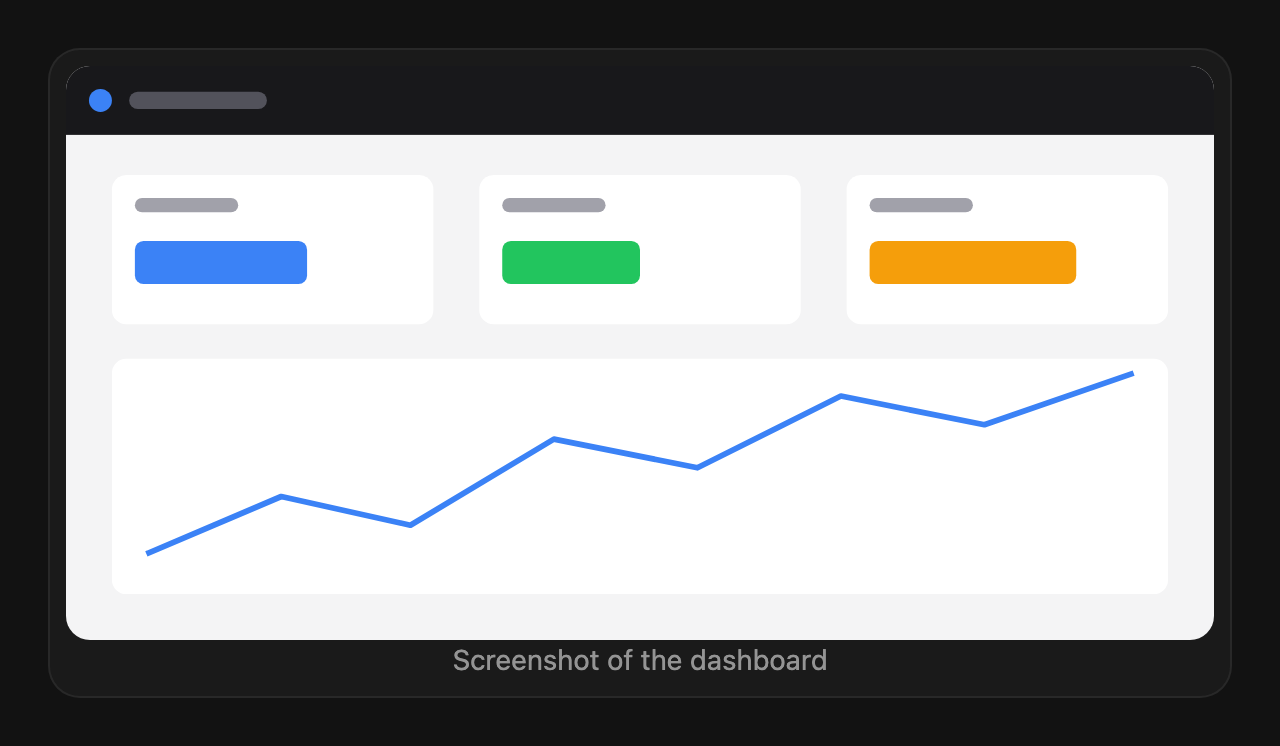
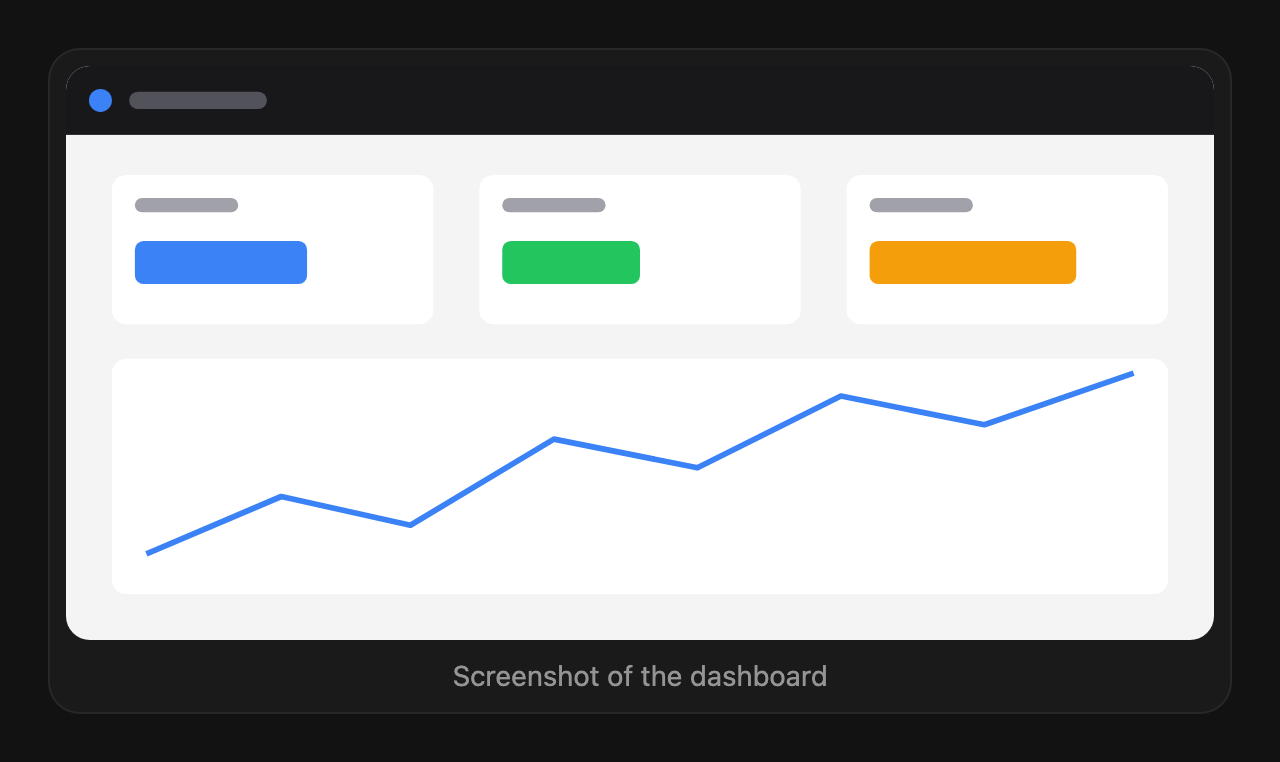
Add wiki front page example with RecentlyUpdatedList as a sidebar
Claude-Session: https://claude.ai/code/session_0121kxNFBZadoimDmhJeGX2b

diff --git a/demo/src/demo/wiki-home-example.tsx b/demo/src/demo/wiki-home-example.tsx
@@ -1,0 +1,87 @@
+import { BookOpen, Library, Moon, Search, Sparkles } from 'lucide-react';
+import { RecentlyUpdatedList } from '@/components/recently-updated-list';
+
+const recent = [
+  { href: '/docs/onboarding', title: 'Onboarding checklist', trail: 'Team › People', meta: 'Last updated 18/10/2026 by Ada' },
+  { href: '/docs/vpn', title: 'Set up the VPN', trail: 'IT', meta: 'Last updated 16/10/2026 by Grace' },
+  { href: '/docs/release-process', title: 'Release process', trail: 'Engineering › Processes', meta: 'Last updated 15/10/2026 by Linus' },
+  { href: '/docs/expenses', title: 'Expense policy', trail: 'Finance', meta: 'Last updated 14/10/2026 by Ada' },
+  { href: '/docs/on-call', title: 'On-call handbook', trail: 'Engineering › Operations', meta: 'Last updated 13/10/2026 by Grace' },
+  { href: '/docs/brand', title: 'Brand guidelines', trail: 'Marketing', meta: 'Last updated 12/10/2026 by Linus' },
+];
+
+const cards = [
+  { icon: Library, tag: 'For everyone', title: 'Knowledge base', text: 'Guides, policies, tools and team info.' },
+  { icon: BookOpen, tag: 'For editors', title: 'Using this wiki', text: 'How to read, edit and add to these docs.' },
+];
+
+const popular = [
+  { title: 'Onboarding', trail: 'Team › People' },
+  { title: 'Release process', trail: 'Engineering › Processes' },
+  { title: 'Expense policy', trail: 'Finance' },
+  { title: 'Brand guidelines', trail: 'Marketing' },
+];
+
+export function WikiHomeExample() {
+  return (
+    <div className="w-[1100px] bg-fd-background text-fd-foreground">
+      <header className="flex items-center justify-between border-b border-fd-border px-8 py-4">
+        <div className="flex items-center gap-2 font-semibold">
+          <Sparkles className="size-5" />
+          Acme Wiki
+        </div>
+        <div className="flex items-center gap-3 text-fd-muted-foreground">
+          <div className="flex w-56 items-center gap-2 rounded-full border border-fd-border bg-fd-secondary/50 px-3 py-1.5 text-sm">
+            <Search className="size-4" />
+            Search
+          </div>
+          <Moon className="size-4" />
+        </div>
+      </header>
+
+      <div className="grid grid-cols-[1fr_17rem]">
+        <main className="px-10 py-12">
+          <div className="text-center">
+            <p className="text-sm text-fd-muted-foreground">Welcome back, Sam</p>
+            <h1 className="mt-1 text-3xl font-bold">Acme Wiki</h1>
+            <p className="mt-2 text-fd-muted-foreground">Internal documentation for the Acme team.</p>
+          </div>
+
+          <div className="mx-auto mt-6 flex max-w-md items-center gap-2 rounded-xl border border-fd-border bg-fd-secondary/50 px-4 py-3 text-fd-muted-foreground">
+            <Search className="size-4" />
+            Search
+          </div>
+
+          <div className="mt-8 grid grid-cols-2 gap-4">
+            {cards.map(({ icon: Icon, tag, title, text }) => (
+              <div key={title} className="rounded-xl border border-fd-border bg-fd-card p-4">
+                <div className="flex items-center justify-between">
+                  <span className="flex size-9 items-center justify-center rounded-lg border border-fd-border bg-fd-background">
+                    <Icon className="size-4" />
+                  </span>
+                  <span className="rounded-full border border-fd-border px-2 py-0.5 text-xs text-fd-muted-foreground">{tag}</span>
+                </div>
+                <p className="mt-6 font-medium">{title}</p>
+                <p className="mt-1 text-sm text-fd-muted-foreground">{text}</p>
+              </div>
+            ))}
+          </div>
+
+          <h2 className="mt-10 text-sm font-semibold">Popular articles</h2>
+          <div className="mt-3 grid grid-cols-2 gap-x-6 gap-y-3">
+            {popular.map(({ title, trail }) => (
+              <div key={title}>
+                <p className="text-sm font-medium">{title}</p>
+                <p className="text-xs text-fd-muted-foreground">{trail}</p>
+              </div>
+            ))}
+          </div>
+        </main>
+
+        <aside className="border-l border-fd-border px-6 py-12">
+          <RecentlyUpdatedList title="Recently updated" items={recent} />
+        </aside>
+      </div>
+    </div>
+  );
+}

diff --git a/demo/src/app/examples/wiki-home/page.tsx b/demo/src/app/examples/wiki-home/page.tsx
@@ -1,0 +1,9 @@
+import { WikiHomeExample } from '@/demo/wiki-home-example';
+
+export default function Page() {
+  return (
+    <div data-preview="wiki-home" className="w-fit">
+      <WikiHomeExample />
+    </div>
+  );
+}

diff --git a/README.md b/README.md
@@ -255,6 +255,26 @@ Each item:
 
 The list has no wording of its own, so there is nothing to translate. Dates and authors are formatted by you, in `meta`.
 
+#### Example: wiki front page
+
+The list works well as a sidebar next to the main content of a landing page:
+
+<picture>
+  <source media="(prefers-color-scheme: dark)" srcset="docs/previews/wiki-home-dark.png">
+  <img alt="Wiki front page with the main content on the left and RecentlyUpdatedList as a right-hand sidebar" src="docs/previews/wiki-home-light.png" width="720">
+</picture>
+
+```tsx
+<div className="grid grid-cols-[1fr_17rem]">
+  <main className="px-10 py-12">{/* hero, search, cards, popular articles */}</main>
+  <aside className="border-l border-fd-border px-6 py-12">
+    <RecentlyUpdatedList title="Recently updated" items={items} />
+  </aside>
+</div>
+```
+
+The full page is `demo/src/demo/wiki-home-example.tsx`.
+
 #### Feeding it data
 
 Sorting, filtering and date lookup are yours to write, because they depend on where your dates come from. A wrapper can be this small:
